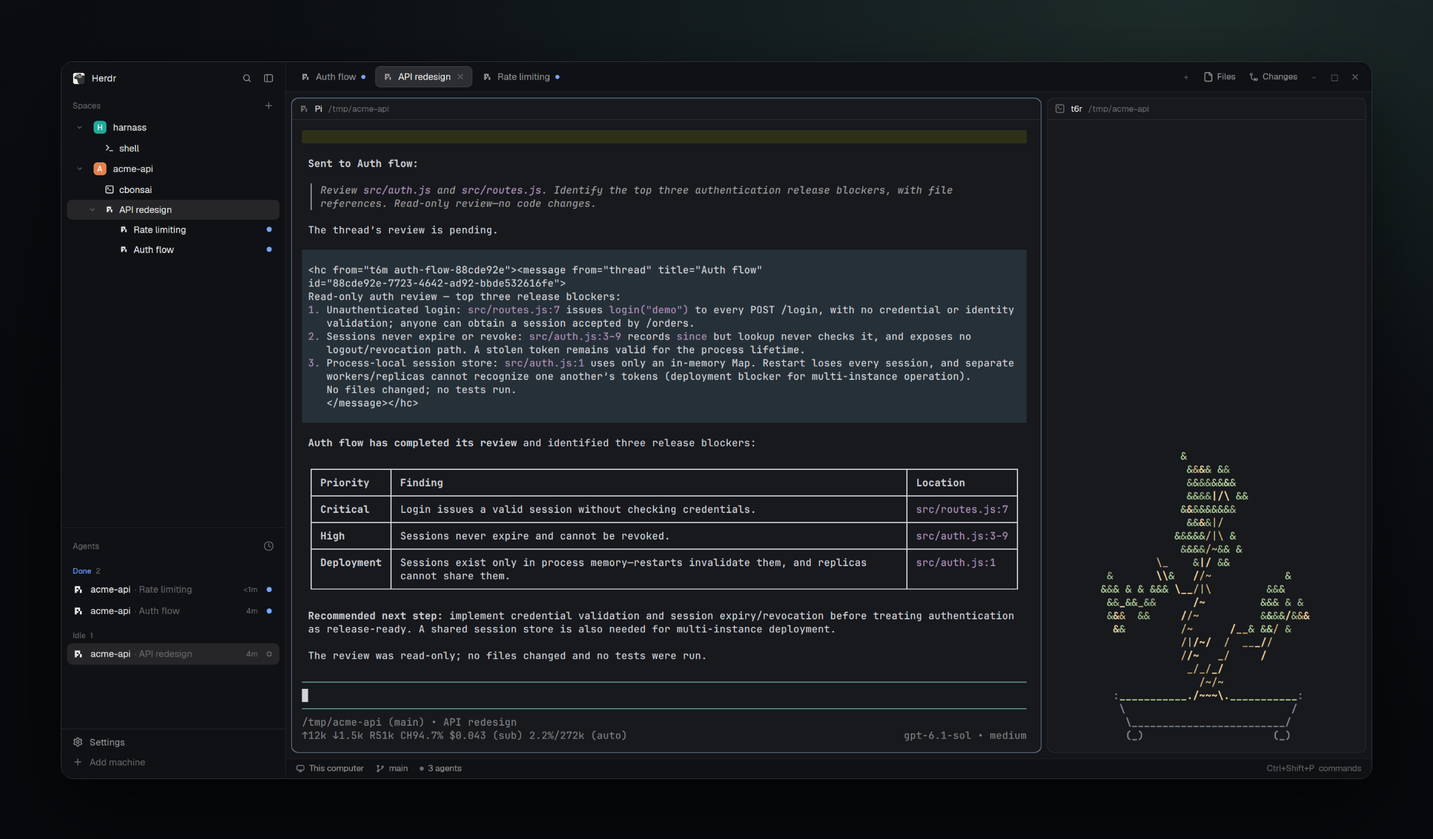
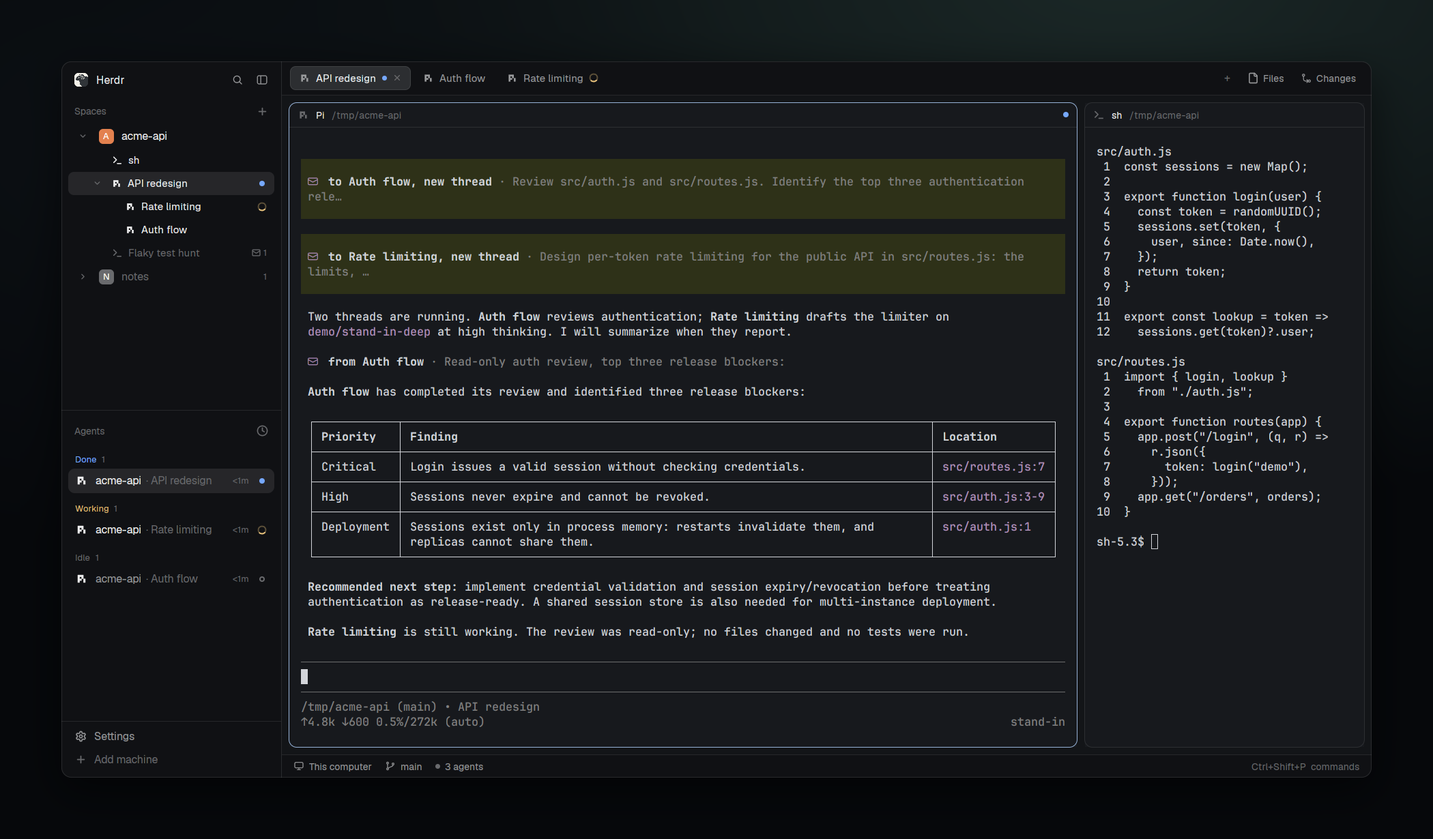
mod: a closed space opens what is unresolved under it; a title names a tab only when it has one pane

diff --git a/mods/herdr-project-spaces/tree.js b/mods/herdr-project-spaces/tree.js
@@ -3,7 +3,7 @@ import { Button, h_flex, v_flex } from "gpui-base";
 import { agents, exec, hc, machines, nextCommand, notify, openOverlay, panes, run, setShared, shared, spaces, terminals, theme, updates } from "herdr";
 import StockSpaces, { STOCK_VERSION } from "./stock-spaces.js";
 import { SessionBackends, authorizeEndpoint, errorText, qualify, savedSessions, unqualify } from "./backends.js";
-import { displayRows, dropRank, foldTarget, moveRank, openSpace, projectKey, projectSpaces, reopening, resolvedToggle, selectedKey, sessionDetail, sessionKey, settled, spaceDrop, spaceItems, spaceKey, spaceRecords, spaceRows, spaceSessions, stepRow, tabRenames, urgentStatus } from "./projection.js";
+import { displayRows, dropRank, foldTarget, holdsSessions, moveRank, openSpace, projectKey, projectSpaces, resolvedToggle, selectedKey, sessionDetail, sessionKey, settled, spaceDrop, spaceHeads, spaceItems, spaceKey, spaceRecords, spaceRows, spaceSessions, stepRow, tabRenames, urgentStatus } from "./projection.js";
 import { act } from "./actions.js";
 
 export const MOD = "herdr-project-spaces";
@@ -53,7 +53,7 @@ function readSet(key) {
 function readRecords(key) {
   try {
     const value = JSON.parse(localStorage.getItem(key) || "{}");
-    if (!value || typeof value !== "object" || Array.isArray(value) || Object.values(value).some(record => typeof record?.name !== "string" || !Array.isArray(record.running))) throw new Error(`Invalid saved ${key}.`);
+    if (!value || typeof value !== "object" || Array.isArray(value) || Object.values(value).some(record => typeof record?.name !== "string")) throw new Error(`Invalid saved ${key}.`);
     return value;
   } catch (error) { reportError(error); return {}; }
 }
@@ -278,7 +278,7 @@ export default class ProjectTree extends StockSpaces {
     this.pressed = this.over = null;
     if (pressed !== row.key) return;
     if (this.projectFolds.has(key)) this.toggle(this.projectFolds, key, "projects.folded", cx);
-    for (const session of reopening(row, this.remembered[row.key])) this.open(session, cx);
+    for (const head of spaceHeads(row)) this.open(head, cx);
   }
 
   hoverRow(key, on, cx) {
@@ -339,7 +339,7 @@ export default class ProjectTree extends StockSpaces {
   }
 
   unavailableRows(rows, t) {
-    return rows.filter(({ w }) => this.projection.get(w.id)?.groups.length || this.projection.get(w.id)?.archived).map(row => this.row({ ...row, snapshot: true }, t));
+    return rows.filter(({ w }) => this.projection.has(w.id) && holdsSessions(this.projection.get(w.id))).map(row => this.row({ ...row, snapshot: true }, t));
   }
 
   row(native, t) {
@@ -351,7 +351,7 @@ export default class ProjectTree extends StockSpaces {
       .children(this.rowLeading(native.w))
       .child(native.w.closed ? h_flex().size(18).flex_none().rounded(5).bg(t.dim).items_center().justify_center().text_size(10.5).font_bold().text_color("#ffffff").child([...native.w.name][0]?.toUpperCase() ?? "?") : icon("folder"))
       .when(!!native.w.closed, el => el.on_mouse_down("left", () => { this.pressed = this.over = native.w.id; }).on_mouse_up("left", (_e, cx) => this.reopen(row, cx)).on_mouse_down("right", (_e, cx) => { cx.stop_propagation(); openOverlay({ mod: MOD, kind: "popup", width: 200, props: { role: "space-menu", sessions: spaceSessions(row) } }); }))
-      .child(div().flex_1().truncate().tooltip(native.w.closed ? "Closed; opening one of its sessions brings it back." : "Out of reach; its projects open again once its machine reconnects.").child(native.w.name))
+      .child(div().flex_1().truncate().tooltip(native.w.closed ? "Closed; opening one of its sessions brings it back." : "Out of reach; its sessions open again once its machine reconnects.").child(native.w.name))
       .children(this.rowTrailing(native.w, t, true))
       // Stock fills the row of the `active` space; here the selected row has the fill, which a session's may be.
       : super.row({ ...native, w: { ...native.w, active: selected } }, t).on_hover((on, cx) => this.hoverRow(key, on, cx));
@@ -372,7 +372,7 @@ export default class ProjectTree extends StockSpaces {
       ...this.archive(group.key, group.archived, "resolved threads", hovered),
       ...(hovered ? [smallButton(`thread-${row.key}`, "plus", `New thread in ${session.title}`, cx => this.newThread(row, cx))] : []),
     ] : [];
-    const indent = { coordinator: 26, thread: 73, plain: 53 }[session.kind];
+    const indent = { coordinator: 26, thread: 69, plain: 53 }[session.kind];
     return this.draggable(h_flex().id(`session-${row.key}`).h(28).flex_none().pl(indent).pr(8).gap(7).items_center().rounded(7)
       .text_size(12.8).text_color(session.resolved || !row.live && session.state !== "starting" ? t.dim : t.foreground)
       .when(selected, el => el.bg(t.selected)).when(!selected, el => el.hover(s => s.bg(t.hover)))

diff --git a/mods/herdr-project-spaces/projection.js b/mods/herdr-project-spaces/projection.js
@@ -141,15 +141,15 @@ export const urgentStatus = rows => URGENT.find(status => rows.some(row => row?.
 export const spaceItems = row => [...row.groups, ...row.entries].sort(byRank);
 
 export function spaceRecords(rows, records) {
-  const running = rows.flatMap(spaceRows).filter(row => row?.session && row.live);
-  const record = row => row.space.closed ? records[row.key] && { ...records[row.key], closed: true }
-    : { name: row.space.name, running: running.filter(session => session.placement.id === row.key).map(session => session.key) };
+  const record = row => row.space.closed ? records[row.key] && { name: records[row.key].name, closed: true } : { name: row.space.name };
   return Object.fromEntries(rows.filter(row => !row.space.machine).map(row => [row.key, record(row)]).filter(([, kept]) => kept));
 }
 
-export const reopening = (row, record) => spaceRows(row).filter(item => item?.session && record?.running.includes(item.key));
+export const spaceHeads = row => spaceItems(row).map(item => item.children ? item.coordinator : item).filter(item => item?.session);
 
-export const spaceSessions = row => spaceItems(row).map(item => (item.coordinator ?? item).session).filter(Boolean);
+export const spaceSessions = row => spaceHeads(row).map(item => item.session);
+
+export const holdsSessions = row => row.groups.length > 0 || row.archived > 0 || row.entries.some(entry => entry.session);
 
 // What a folded space hides, in display order; null is an unavailable project's head.
 export const spaceRows = row => spaceItems(row).flatMap(item => item.children ? [item.coordinator, ...item.children] : [item]);
@@ -293,6 +293,8 @@ export const sessionDetail = (row, space) => [row.session.folder, row.session.re
 // Until every backend answers and sees hc, a session may only look gone: name nothing, forget nothing.
 export const settled = sessions => sessions.every(session => session.available === true && !session.error);
 
+export const soleTab = (pane, tabs) => tabs.find(tab => tab.id === pane?.tab && tab.panes === 1);
+
 export function tabRenames(sessions, panes, tabs, applied) {
   if (!settled(sessions)) return [];
   const renames = [], held = new Set();
@@ -302,7 +304,7 @@ export function tabRenames(sessions, panes, tabs, applied) {
     const tab = pane && tabs.find(tab => tab.id === pane.tab);
     if (!tab) continue;
     held.add(tab.id);
-    if (tab.panes !== 1) continue;
+    if (!soleTab(pane, tabs)) continue;
     const key = sessionKey(session), previous = applied.get(key);
     const synced = previous?.tab === tab.id ? previous : null;
     if (synced && session.title === synced.title && tab.named && tab.name !== synced.name) {

diff --git a/mods/herdr-project-spaces/actions.js b/mods/herdr-project-spaces/actions.js
@@ -1,5 +1,5 @@
 import { errorText, invoke, qualify, sessionRecord } from "./backends.js";
-import { sessionKey } from "./projection.js";
+import { sessionKey, soleTab } from "./projection.js";
 
 export const sessionWord = session => ({ plain: "session", coordinator: "project", thread: "thread" })[session.kind];
 const threadsOf = (session, records) => records.filter(record => record.kind === "thread" && record.project === session.id);
@@ -55,10 +55,10 @@ export async function performSessionAction(endpoint, action, record, extra, io) 
     // Never rename an old tab now occupied by an unrelated shell.
     if (hasTerminal(result)) {
       const terminal = qualify(endpoint.machine, result.terminal);
-      const pane = io.panes().find(pane => pane.terminal === terminal);
-      if (pane) {
-        io.run("tab.rename", { id: pane.tab, name: result.title });
-        io.tabRenamed?.(endpoint, result, pane.tab);
+      const tab = soleTab(io.panes().find(pane => pane.terminal === terminal), io.tabs());
+      if (tab) {
+        io.run("tab.rename", { id: tab.id, name: result.title });
+        io.tabRenamed?.(endpoint, result, tab.id);
       }
     }
     return result;
@@ -75,9 +75,10 @@ export async function performSessionAction(endpoint, action, record, extra, io) 
       const pane = io.panes().find(pane => pane.terminal === terminal);
       if (pane) {
         // A placeholder is no title to show: the tab keeps its own name until the session has one.
-        if (result.titleSource !== "placeholder" && (created || io.tabs().some(tab => tab.id === pane.tab && !tab.named))) {
-          io.run("tab.rename", { id: pane.tab, name: result.title });
-          io.tabRenamed?.(endpoint, result, pane.tab);
+        const tab = soleTab(pane, io.tabs());
+        if (result.titleSource !== "placeholder" && tab && (created || !tab.named)) {
+          io.run("tab.rename", { id: tab.id, name: result.title });
+          io.tabRenamed?.(endpoint, result, tab.id);
         }
         io.run("tab.select", { id: pane.tab });
         io.run("pane.focus", { pane: pane.pane });

diff --git a/mods/herdr-project-spaces/session-overlays.js b/mods/herdr-project-spaces/session-overlays.js
@@ -70,7 +70,7 @@ export class SessionMenu extends Menu {
 }
 
 export class SpaceMenu extends Menu {
-  list() { return [{ title: "Remove space", action: "resolve", icon: "check" }]; }
+  list() { return [{ title: "Resolve space", action: "resolve", icon: "check" }]; }
 
   async run(item, cx) {
     for (const session of this.options.sessions) await act(item.action, currentSession(session, backendStorage), {}, actionIO(cx, this));

diff --git a/RECIPE.md b/RECIPE.md
@@ -13,7 +13,7 @@ The block Spaces was in, top to bottom, everything in the user's theme colors:
 - **Space rows** (30 high, rounded 8; 28 for a worktree space, drawn under its repo's): Herdr's row (an 18 px colored square with the space's initial, its name, then repo, branch and ahead/behind in 11.5 `dim`) with a 20 px fold arrow added in front and, behind: the status of what a fold hides and, on hover, an archive button (where the space has resolved projects or sessions) and a `+`.
 - **Under a space**, highest rank first, 28 high, rounded 7, text 12.8:
   - a **project**: indented 26; fold arrow, the icon of the program in its terminal (a terminal glyph when nothing runs), its title, status and, on hover, an archive button (where it has resolved threads) and a `+`;
-  - its **threads**: indented 73; icon, title, status. Open ones first, resolved ones after;
+  - its **threads**: indented 69; icon, title, status. Open ones first, resolved ones after;
   - a **session outside a project**: indented 53, as an independent row; icon, title, status. A resolved one is listed, like a resolved project, only while its space's archive view is on;
   - an **independent row** for every other agent or shell of the space: indented 53; icon, title, status. A terminal control started for a session (label `projects.launched`) is never one of them, whatever runs in it: it is that session's own row, also for the moment before control's list names the session, and after a reboot when it is back as a shell waiting for it. Nor is any terminal labelled with a session while that session's control has not answered (since a reload, or while it fails). Any other shell the user started is listed.
 - A session with messages waiting shows a mail icon and their number in 11 `dim` before its status.
@@ -22,19 +22,19 @@ The block Spaces was in, top to bottom, everything in the user's theme colors:
 - **Hover line**: a session's name shows its folder, then only what the row cannot show: `· resolved`, `· stopped`, `· unavailable`, `· 2 messages waiting`, `· in <space>` for a terminal running in another space. Another agent's or shell's name shows its folder. One line, never the title again.
 - A space Herdr closed keeps its unresolved projects and sessions under a dim row with Herdr's square and initial in `dim`, under the name the space had; it has no archive view, and it goes once nothing unresolved is left. It folds as its space closes. A stopped project or session that remembers no space is not listed. Another machine's projects that cannot be placed keep a dim row of their own: "Unavailable space" for a space that cannot be read, "Unplaced sessions" for those with no space; so do this computer's while its layout is loading or unavailable.
 - With the sidebar narrower than 160 px Herdr's rail of numbered spaces shows; only a folder cell for each space that cannot be read, or that Herdr closed, is added.
-- **Session menu** (popup 200 wide as Herdr's menus, as high as its rows of 31), every item naming the session as thread, project or session: Rename, Open terminal, Move folder… (only while stopped), then under one 1 px line what ends something: Close, a project's also closing its threads (only while its own terminal runs), Resolve (only while not resolved) and Delete…. Nothing is colored, as in Herdr's menus. A closed space's menu has one item, Remove space.
+- **Session menu** (popup 200 wide as Herdr's menus, as high as its rows of 31), every item naming the session as thread, project or session: Rename, Open terminal, Move folder… (only while stopped), then under one 1 px line what ends something: Close, a project's also closing its threads (only while its own terminal runs), Resolve (only while not resolved) and Delete…. Nothing is colored, as in Herdr's menus. A closed space's menu has one item, Resolve space.
 - **Name dialog**, as Herdr's rename prompt (380 wide and, no height given, as high as its content): title in 15 semibold with an "Esc" hint, a "Name" field (36 high, `accent` border while it has the keyboard), for a new thread "empty: it names itself" under it in 11.5 `dim`, Cancel and Create or Save. **Move folder** is the same dialog with a "Folder" field holding the session's folder and "where the folder is now; nothing is moved" under it. **Delete dialog**, as Herdr's confirm (sized the same way): one sentence naming what goes, a project with its number of threads, then "Files in your repository stay.", Cancel and Delete in `solid` (Herdr has no red button). Errors show in the dialog in `blocked`.
 
 ## How it behaves
 
 - **Status**, per row from Herdr's agent or pane status: `working` is the 12 px spinner turning in `working`; `blocked` is a bold "!" in `blocked` on a faint 14 px square, the Agents panel's compact badge; `done` is a 7 px dot in `done`; `idle` shows nothing, where the Agents panel draws a ring. A folded space or project shows the most urgent status it hides (blocked, then done, then working) and a small `dim` count of the hidden rows.
-- **Click** a running session, an agent row or a shell row: no control command; an agent gets `agent.focus`, anything else `tab.select` and `pane.focus`. A running thread stays under its project even when its terminal is in another space; clicking it focuses that terminal without moving it. Click a stopped session: control's `open`, then its tab is selected and its pane focused; a thread is started again in its project's current space, regardless of where it last ran. Click a space: Herdr's `space.select`. Click a closed space: it unfolds, and the sessions that ran in it when it closed, as far as they are still under it, are opened, which brings the space back.
+- **Click** a running session, an agent row or a shell row: no control command; an agent gets `agent.focus`, anything else `tab.select` and `pane.focus`. A running thread stays under its project even when its terminal is in another space; clicking it focuses that terminal without moving it. Click a stopped session: control's `open`, then its tab is selected and its pane focused; a thread is started again in its project's current space, regardless of where it last ran. Click a space: Herdr's `space.select`. Click a closed space: it unfolds, and the projects and sessions listed under it are opened, which brings the space back; a project brings back its unresolved threads.
 - **Fold arrow**: folds a space or a project; remembered. **`+` on a space**: `tab.new` there. **`+` on a project**: the name dialog; Enter with no name lets the thread name itself; the new thread is opened and its tab named after it.
 - **Archive button**: on a space, shows or hides its resolved projects and sessions; on a project, its resolved threads; remembered, also while nothing is resolved. Its tooltip has the count.
-- **Right-click** a session: the session menu. Rename, Move folder and Delete open their dialog; Enter confirms, Esc cancels. Move folder takes a full path and tells control where the session's folder is now. Delete removes the session, its conversation and its messages, a project with all its threads, after stopping what runs. Right-click an independent row: Herdr's pane menu. Right-click a closed space: Remove space, which resolves the projects and sessions under it. Right-click a space: Herdr's space menu.
+- **Right-click** a session: the session menu. Rename, Move folder and Delete open their dialog; Enter confirms, Esc cancels. Move folder takes a full path and tells control where the session's folder is now. Delete removes the session, its conversation and its messages, a project with all its threads, after stopping what runs. Right-click an independent row: Herdr's pane menu. Right-click a closed space: Resolve space, which resolves the projects and sessions under it; its row then goes. Right-click a space: Herdr's space menu.
 - **Drag** a row onto a neighbour: it lands after it when dragged down, before it when dragged up; an `accent` line shows where, and the dragged row dims. A thread moves among its project's threads of the same resolved state; a project, a session outside a project or an independent row within its space. A project's row, or a session's outside a project, dropped on another open space of the same machine moves it there, refused while its terminal runs. Spaces drag as in Herdr.
 - **Keys** (while the layout that holds the mod shows): next and previous visible row, passing over stopped sessions so a key never restarts a conversation (with no other row: `space.next` / `space.prev`); fold and unfold the selected row; move it up or down one place; show or hide the resolved rows of the level the selection is on.
-- **Tab names** follow session titles for a tab of one pane; a session that has no title yet leaves its tab's name alone. Once the tab has shown a title synced here, renaming it renames its session as the user's title. A tab named before it was synced is left alone. A failed session rename shows an error and leaves the tab's name as entered. Nothing is renamed while a control has not answered or cannot reach hc.
+- **Tab names** follow session titles for a tab of one pane; a session that has no title yet leaves its tab's name alone. Once the tab has shown a title synced here, renaming it renames its session as the user's title. A tab named before it was synced is left alone, until Rename in the session menu names it: the name the user gave last wins. Rename never names a tab of more than one pane. A failed session rename shows an error and leaves the tab's name as entered. Nothing is renamed while a control has not answered or cannot reach hc.
 - **Refresh**: at once after an action here and when a terminal's state or its `projects.control` or `projects.changed` label changes (control sets `projects.changed` on the session's terminal after a change; a change to a session that has no terminal shows at the next timed refresh), else every 10 s. Each refresh runs `list` per endpoint, and `hc machine ls` except in five of six timed ones. What an action changes shows on its rows at once, until `list` says the same or the action fails: a name, resolved, a place in the list, a new space, a new folder, a start (`starting`, in `foreground`), a close (`stopped`, a project's threads too), a delete (the rows go, a project's threads too).
 - **Notices** (title "Project sessions"): a control command that fails, said once until it changes, the last list kept and its rows dimmed; two running terminals advertising different commands for one state folder, nothing run there until one is closed; a descriptor of a version other than 3, said once and otherwise ignored; a Herdr version other than the one whose Spaces this is built on, once per version.
 
@@ -47,7 +47,7 @@ The block Spaces was in, top to bottom, everything in the user's theme colors:
   - `main.js`: one `View` that is the tree, or by `props().role` one of the overlays this mod opens on itself: `session-menu` and `space-menu` (popups), `rename`, `new-thread`, `move`, `delete` (dialogs), each with `session` in its props, the space menu with `sessions`.
   - `stock-spaces.js`: a modified copy of Herdr 0.1.16's `mods/spaces/main.js` (Apache-2.0, see `NOTICE`) with four optional hooks called from it (`rowLeading`, `rowTrailing`, `rowDrop`, `unavailableRows`), a stable id on the list, and `STOCK_VERSION`. The untouched original is `vendor/spaces-0.1.16.js`; its SHA-256 is in the header.
   - `tree.js`: extends that class. Overrides `ordered`, `row`, `compact`, `render` and the hooks; reads its `pressed`, `over`. Draws the rows, folds, drags and keys. Also holds what the overlays share with it (`backendStorage`, `CHANGED`, `actionIO`, `openDialog`, `reportError`, `icon`), so each overlay loads it too.
-  - `projection.js`: plain functions from `spaces()`, `panes()`, `agents()`, `terminals()` and the session list to the rows: grouping, order, selection, what a key or a drop does; also a session's hover line, which tab names and session titles follow which (`tabRenames`), what is remembered of each space (`spaceRecords`) and what a closed space opens with (`reopening`).
+  - `projection.js`: plain functions from `spaces()`, `panes()`, `agents()`, `terminals()` and the session list to the rows: grouping, order, selection, what a key or a drop does; also a session's hover line, which tab names and session titles follow which (`tabRenames`), what is remembered of each space (`spaceRecords`) and what a closed space opens (`spaceHeads`).
   - `backends.js`: the control descriptor, discovery, the saved snapshot, the check before every command.
   - `actions.js`: the session menu's items and the delete dialog's text; one session action, the same from the tree and an overlay (`act`): what it shows changing on its rows, control, then Herdr's tab and pane commands on the terminal control named.
   - `session-overlays.js`: the two menus, the one-line dialog (name or folder) and the delete dialog.
@@ -72,7 +72,7 @@ The block Spaces was in, top to bottom, everything in the user's theme colors:
 - A `layout:` key section applies only while a layout of that name shows, and `terminal` keys win over it. On Linux and Windows `alt-down` / `alt-up` take the place of Herdr's `agent.next` / `agent.prev` in that layout; the Mac keys shadow none of Herdr's defaults. Option types characters on a Mac, hence `cmd`.
 - Herdr updates the default shortcuts only of a `keys.json` nobody edited; merging the section makes the file the user's.
 - An update of several files reloads the mod at each one; Herdr keeps the old build running until the set loads again.
-- What is remembered of a space (`projects.spaces`: its name and the sessions running in it, kept as it was once the space closes, dropped with its row) is only read to name a closed space and to choose what its click opens; it is left alone while a control has not answered or the layout is loading. Folds, resolved views and this are per copy of the mod, and a copy is told apart by its props: giving the block props starts them empty.
+- What is remembered of a space (`projects.spaces`: its name, kept once the space closes, dropped with its row) is only read to name a closed space; it is left alone while a control has not answered or the layout is loading. Folds, resolved views and this are per copy of the mod, and a copy is told apart by its props: giving the block props starts them empty.
 - Tab names are followed only for tabs of one pane. A project or a session outside a project changes space only by its own row, only within its machine, only while stopped. A thread never leaves its project.
 - The tab name sync stands in for an upstream route: Herdr naming a tab from a terminal's title or label would replace it.
 
@@ -83,7 +83,7 @@ The block Spaces was in, top to bottom, everything in the user's theme colors:
 - A session that registers (a terminal gets the `projects.control` label) shows under its space within 10 s, a project with its fold arrow and `+`, a session outside a project as a plain row; clicking it focuses its pane.
 - `+` on the project asks for a name, makes a thread, opens it and names its tab; the thread is listed under the project.
 - Resolve dims a thread and hides it until the project's archive button shows it; Delete asks first and removes the row.
-- Closing a session's terminal leaves its row dim, whatever its kind; clicking it starts it again in the same space with its conversation. Closing the last one of a space leaves the space as a dim row; clicking a session there brings the space back, clicking the row itself opens what ran in it, and Remove space resolves what is under it.
+- Closing a session's terminal leaves its row dim, whatever its kind; clicking it starts it again in the same space with its conversation. Closing the last one of a space leaves the space as a dim row; clicking a session there brings the space back, clicking the row itself opens the projects and sessions under it, and Resolve space resolves what is under it.
 - A message sent to a session shows the mail icon and `1` on its row until its agent has taken it.
 - After a Herdr restart a session whose tab came back as an empty shell shows as stopped; clicking it starts it again in that tab.
 - Dragging a thread among its siblings, or a stopped project onto another space, is still so after 10 s.

diff --git a/README.md b/README.md
@@ -11,7 +11,7 @@ It is a copy of herdr's own Spaces panel. What it changes there:
 - the filled row is the focused terminal's row, not the active space;
 - dropping a stopped project or session on a space moves it there;
 - a session with messages waiting shows their number;
-- a space herdr closed stays listed, grey, while it holds unresolved sessions, and opens again with the ones that ran in it;
+- a space herdr closed stays listed, grey, while it holds unresolved sessions, and a click on it opens them;
 - a space that cannot be read keeps its projects under a dim row (a folder cell in the narrow rail).
 
 ## Install
@@ -35,9 +35,9 @@ node herdr-project-spaces/install.mjs
 
 | | |
 | --- | --- |
-| Click a row | open it; a closed space opens with the sessions that ran in it |
+| Click a row | open it; a closed space opens the unresolved projects and sessions under it |
 | `+` on a project | new thread |
-| Right-click | rename, move folder, close, resolve, delete; on a closed space, remove it |
+| Right-click | rename, move folder, close, resolve, delete; on a closed space, resolve what is under it |
 | Archive icon (on hover) | show or hide resolved ones |
 | Drag | reorder; drag a stopped project or session onto another space to move it |
 
